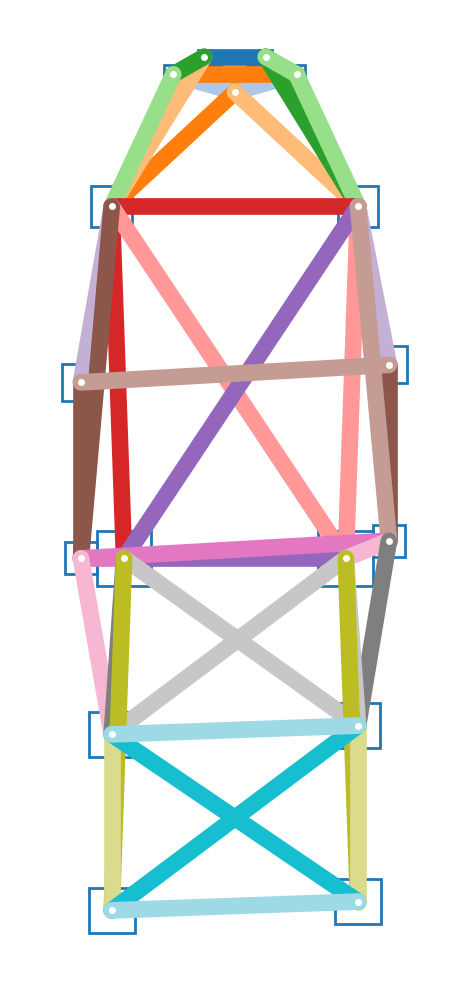
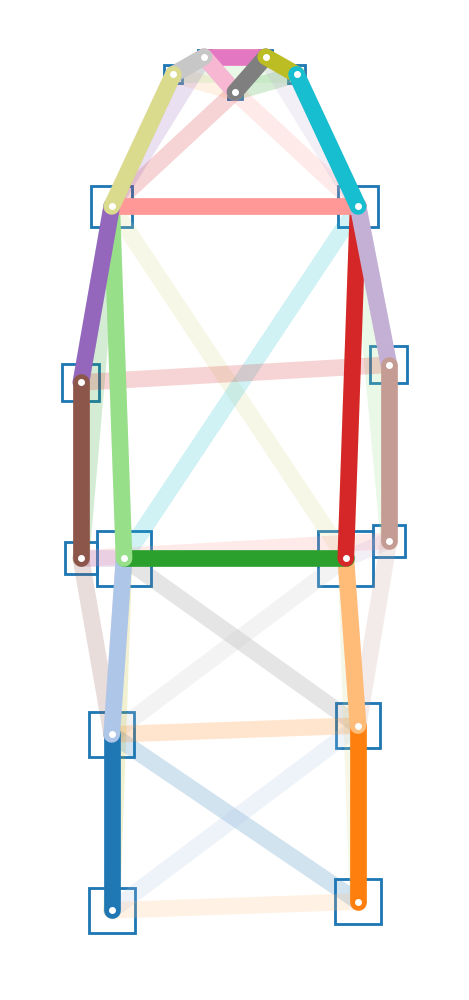
update dense pose plot

Changed region(s): [[0.1493, 0.031, 0.8657, 0.93]]

diff --git a/openpifpaf/plugins/coco/constants.py b/openpifpaf/plugins/coco/constants.py
@@ -245,7 +245,7 @@ COCO_CATEGORIES = [
 ]
 
 
-def draw_ann(ann, *, filename=None, margin=0.5, aspect=None, keypoint_painter=None, **kwargs):
+def draw_ann(ann, *, filename=None, margin=0.5, aspect=None, keypoint_painter=None, ann_bg=None, **kwargs):
     import openpifpaf  # pylint: disable=import-outside-toplevel
 
     bbox = ann.bbox()
@@ -266,6 +266,9 @@ def draw_ann(ann, *, filename=None, margin=0.5, aspect=None, keypoint_painter=No
         if aspect is not None:
             ax.set_aspect(aspect)
 
+        if ann_bg is not None:
+            keypoint_painter.annotation(ax, ann_bg, alpha=0.2)
+
         keypoint_painter.annotation(ax, ann)
 
 
@@ -285,17 +288,17 @@ def draw_skeletons(pose):
     ann.set(pose, np.array(COCO_PERSON_SIGMAS) * scale)
     draw_ann(ann, filename='docs/skeleton_coco.png')
 
-    ann = openpifpaf.Annotation(keypoints=COCO_KEYPOINTS,
-                                skeleton=KINEMATIC_TREE_SKELETON,
-                                score_weights=COCO_PERSON_SCORE_WEIGHTS)
-    ann.set(pose, np.array(COCO_PERSON_SIGMAS) * scale)
-    draw_ann(ann, filename='docs/skeleton_kinematic_tree.png')
+    ann_kin = openpifpaf.Annotation(keypoints=COCO_KEYPOINTS,
+                                    skeleton=KINEMATIC_TREE_SKELETON,
+                                    score_weights=COCO_PERSON_SCORE_WEIGHTS)
+    ann_kin.set(pose, np.array(COCO_PERSON_SIGMAS) * scale)
+    draw_ann(ann_kin, filename='docs/skeleton_kinematic_tree.png')
 
-    ann = openpifpaf.Annotation(keypoints=COCO_KEYPOINTS,
-                                skeleton=DENSER_COCO_PERSON_SKELETON,
-                                score_weights=COCO_PERSON_SCORE_WEIGHTS)
-    ann.set(pose, np.array(COCO_PERSON_SIGMAS) * scale)
-    draw_ann(ann, filename='docs/skeleton_dense.png')
+    ann_dense = openpifpaf.Annotation(keypoints=COCO_KEYPOINTS,
+                                      skeleton=DENSER_COCO_PERSON_SKELETON,
+                                      score_weights=COCO_PERSON_SCORE_WEIGHTS)
+    ann_dense.set(pose, np.array(COCO_PERSON_SIGMAS) * scale)
+    draw_ann(ann, ann_bg=ann_dense, filename='docs/skeleton_dense.png')
 
 
 def print_associations():
